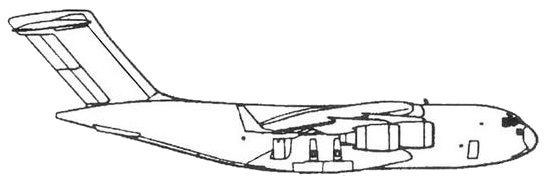
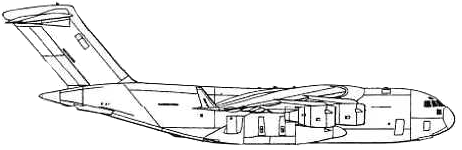
c17 new sprite

Changed region(s): [[0.0, 0.0, 1.0, 0.9867]]

diff --git a/shilka2/Aircrafts.cs b/shilka2/Aircrafts.cs
@@ -464,7 +464,7 @@ namespace shilka2
                 aircraftType = "c17",
                 aircraftName = "C-17 Globemaster III",
                 hitPoint = 120,
-                size = new int[] { 545, 183 },
+                size = new int[] { 462, 150 },
                 speed = 8,
                 minAltitude = minAltitudeForLargeAircraft,
                 price = 316,
